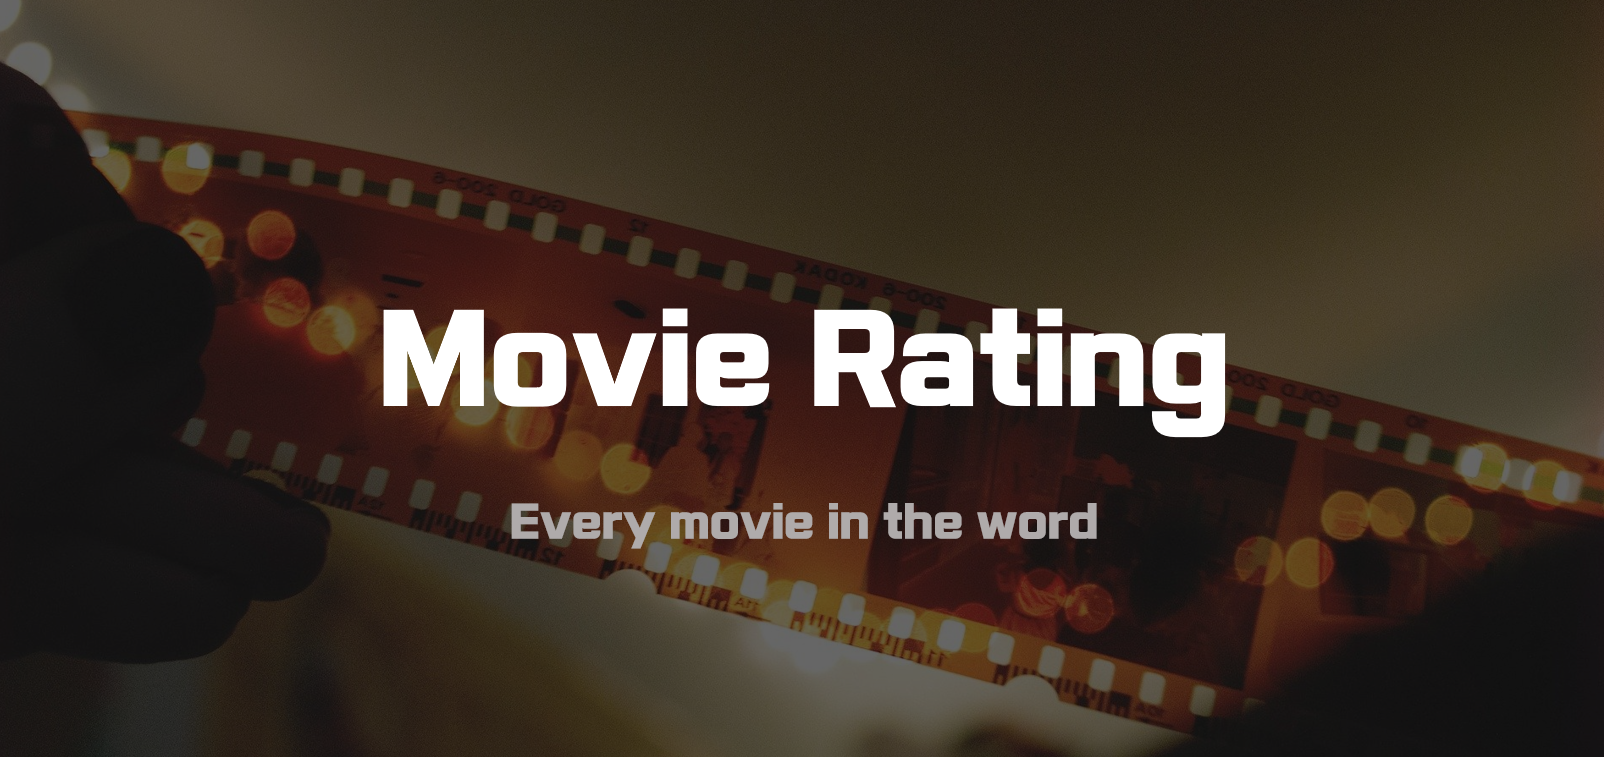
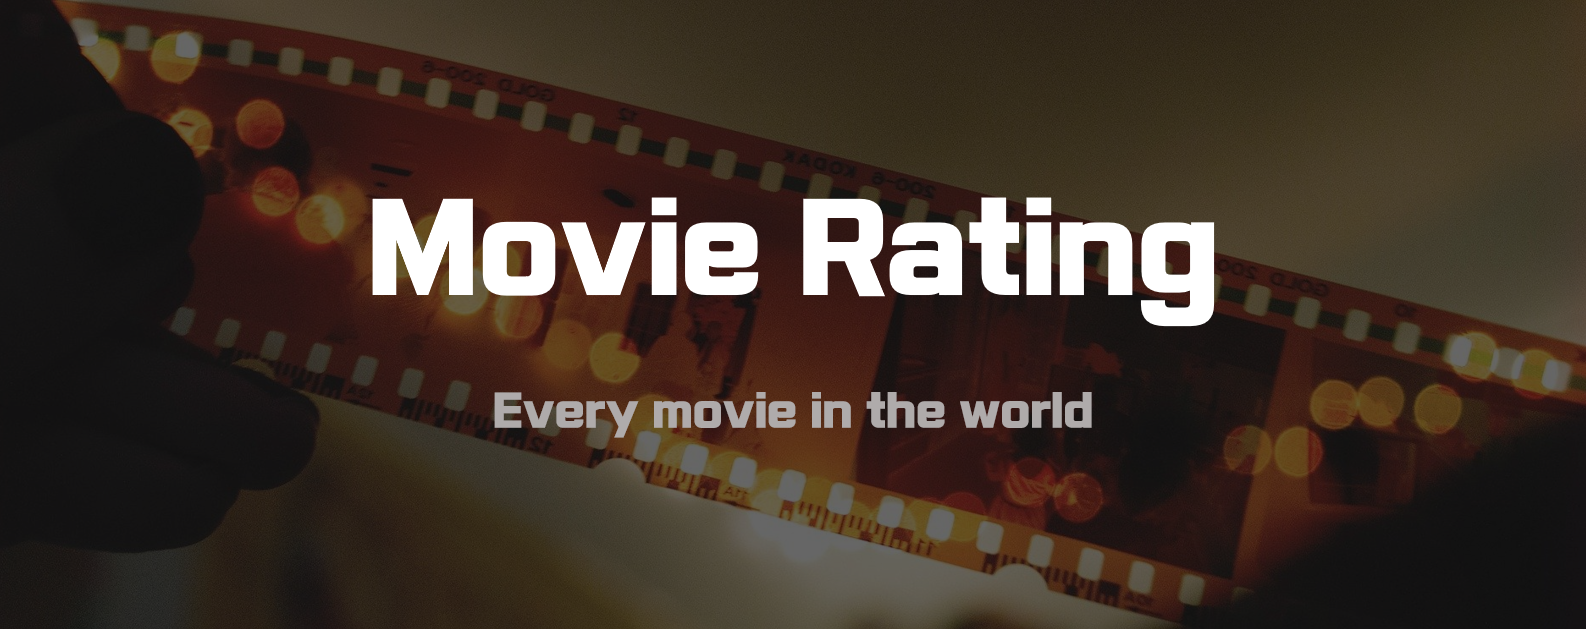
img change

Changed region(s): [[0.0, 0.0, 1.0, 0.8458], [0.587, 0.876, 0.7724, 1.0]]

diff --git a/src/components/information/information.js b/src/components/information/information.js
@@ -1,0 +1,14 @@
+import React, {Component} from 'react';
+import "./information.css";
+
+class Information extends Component {
+    render(){
+        return(
+            
+            <div className="information">
+                Team N/A
+            </div>
+        );
+    }
+}
+export default Information;

diff --git a/src/components/information/information.css b/src/components/information/information.css
@@ -1,0 +1,8 @@
+.information{
+    width: 100vw;
+    height: 60vh;
+    position: fixed;
+    margin: auto;
+    display: flex;
+    background-color: black;
+}
